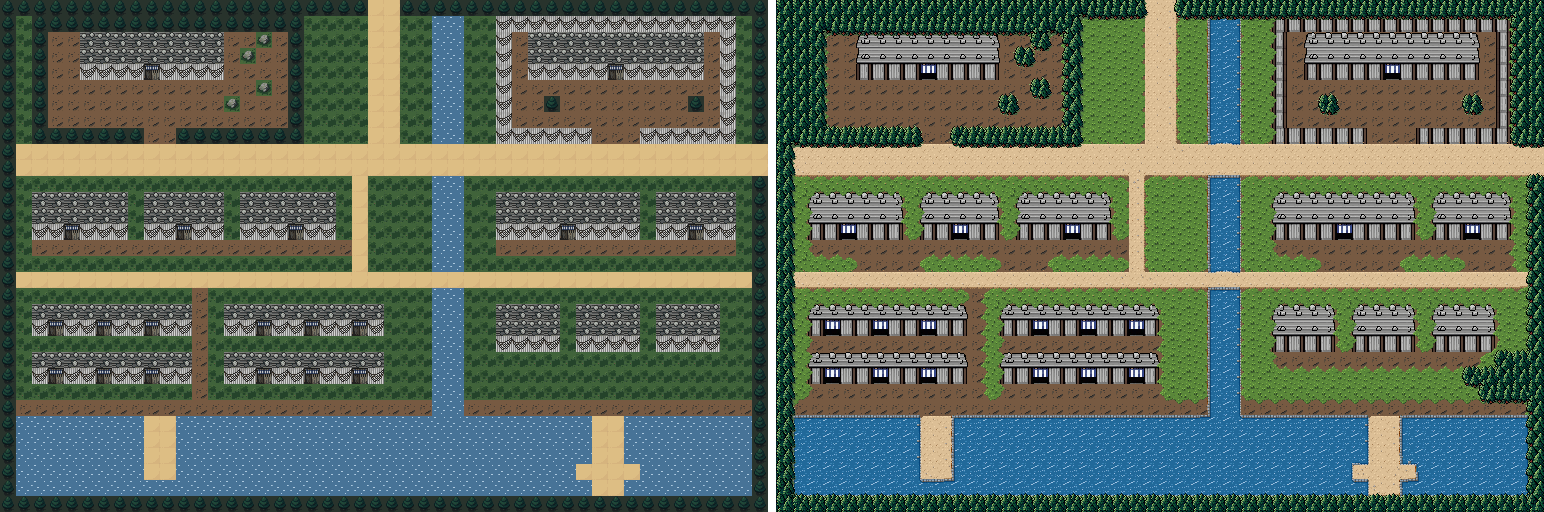
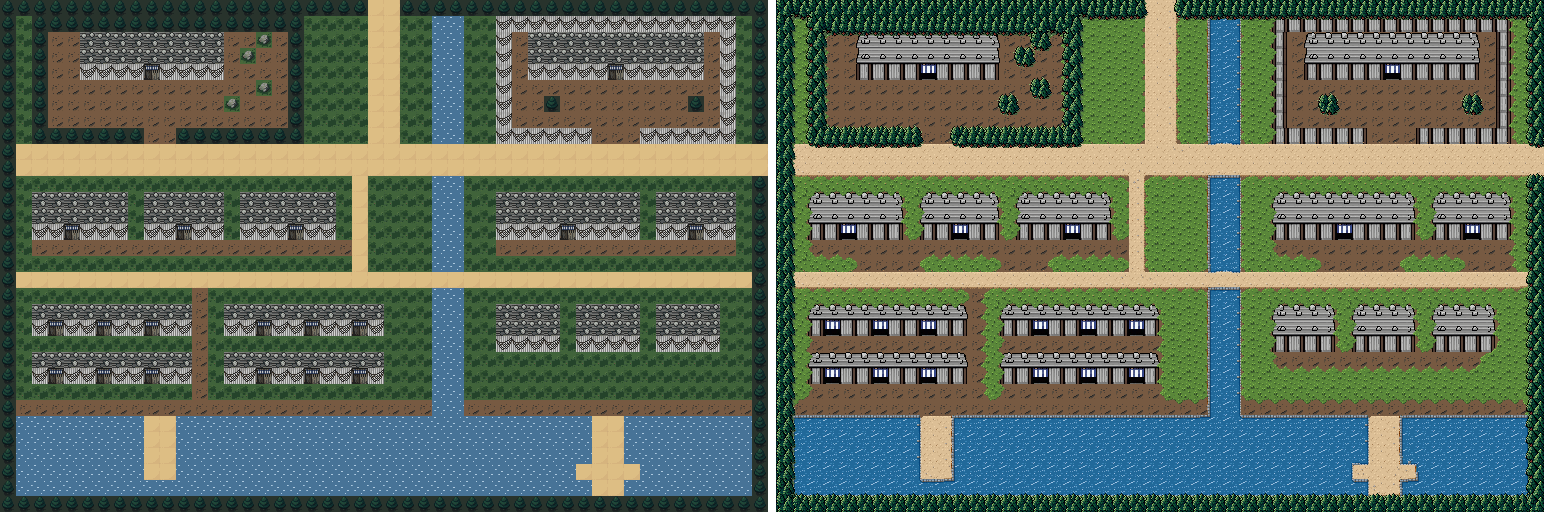
港町の描き直しで通れるマスを変えないようにする
- 通れる/通れないが変わったマス（shimizu の外周の草の帯と南東の角、hiroshima の木）を元に戻す
- README の記録を実際の変更に合わせる
- コミットに入った Python のキャッシュを外し、.gitignore に足す

Claude-Session: https://claude.ai/code/session_01TGCvVdMyYhCKajcTFFKvti

Changed region(s): [[0.4974, 0.0, 0.5285, 0.3125], [0.9637, 0.0, 0.9948, 0.2812], [0.9326, 0.6562, 0.9948, 0.8125]]

diff --git a/src/data/maps.ts b/src/data/maps.ts
@@ -184,14 +184,14 @@ export const MAPS: Record<string, MapDef> = {
     areaLevel: 1,
     rows: [
       'TTTTTTTTTTTTTTTTTTTTTTT==TTTTTTTTTTTTTTTTTTTTTTT',
-      'TTTTTTTTTTTTTTTTTTT,,,,==,,~~,,WWWWWWWWWWWWWWWTT',
-      'TTT..RRRRRRRRR..T.T,,,,==,,~~,,W.RRRRRRRRRRR.WTT',
-      'TTT..RRRRRRRRR.T..T,,,,==,,~~,,W.RRRRRRRRRRR.WTT',
-      'TTT..WWWWDWWWW....T,,,,==,,~~,,W.WWWWWDWWWWW.WTT',
-      'TTT.............T.T,,,,==,,~~,,W.............WTT',
-      'TTT...........T...T,,,,==,,~~,,W..T........T.WTT',
-      'TTT...............T,,,,==,,~~,,W.............WTT',
-      'TTTTTTTTT..TTTTTTTT,,,,==,,~~,,WWWWWW...WWWWWWTT',
+      'T,TTTTTTTTTTTTTTTTT,,,,==,,~~,,WWWWWWWWWWWWWWW,T',
+      'T,T..RRRRRRRRR..T.T,,,,==,,~~,,W.RRRRRRRRRRR.W,T',
+      'T,T..RRRRRRRRR.T..T,,,,==,,~~,,W.RRRRRRRRRRR.W,T',
+      'T,T..WWWWDWWWW....T,,,,==,,~~,,W.WWWWWDWWWWW.W,T',
+      'T,T.............T.T,,,,==,,~~,,W.............W,T',
+      'T,T...........T...T,,,,==,,~~,,W..T........T.W,T',
+      'T,T...............T,,,,==,,~~,,W.............W,T',
+      'T,TTTTTTT..TTTTTTTT,,,,==,,~~,,WWWWWW...WWWWWW,T',
       'T===============================================',
       'T===============================================',
       'T,,,,,,,,,,,,,,,,,,,,,=,,,,~~,,,,,,,,,,,,,,,,,,T',
@@ -205,9 +205,9 @@ export const MAPS: Record<string, MapDef> = {
       'T,RRRRRRRRRR.,RRRRRRRRRR,,,~~,,RRRR,RRRR,RRRR,,T',
       'T,WDWWDWWDWW.,WWDWWDWWDW,,,~~,,RRRR,RRRR,RRRR,,T',
       'T,...........,..........,,,~~,,WWWW,WWWW,WWWW,,T',
-      'T,RRRRRRRRRR.,RRRRRRRRRR,,,~~,,.............,TTT',
-      'T,WDWWDWWDWW.,WWDWWDWWDW,,,~~,,,,,,,,,,,,,,TTTTT',
-      'T,...........,..........,,,~~,,,,,,,,,,,,,,,TTTT',
+      'T,RRRRRRRRRR.,RRRRRRRRRR,,,~~,,.............,,,T',
+      'T,WDWWDWWDWW.,WWDWWDWWDW,,,~~,,,,,,,,,,,,,,,,,,T',
+      'T,...........,..........,,,~~,,,,,,,,,,,,,,,,,,T',
       'T..........................~~..................T',
       'T~~~~~~~~==~~~~~~~~~~~~~~~~~~~~~~~~~~==~~~~~~~~T',
       'T~~~~~~~~==~~~~~~~~~~~~~~~~~~~~~~~~~~==~~~~~~~~T',
@@ -2791,8 +2791,8 @@ MAPS.hiroshima = {
     'TRRR=RRR~~WDWW,=,WWDW~~WWDW,=,WDW~~RRRRRRT',
     'TWDW=WDW~~....,=,....~~....,=,...~~WWWDWWT',
     'T...=...~~,,,,,=,,,,,~~,,,,,=,,,,~~......T',
-    'TTTT=,,,~~TT,,,=,,,,,~~,,,,,=,TT,~~,TTTTTT',
-    'TTTT=,,,~~TT,,,=,,,,,~~,,,,,=,TT,~~,TTTTTT',
+    'TTTT=,,,~~,T,,,=,,T,,~~,T,,,=,,T,~~,TTTTTT',
+    'TTTT=,,,~~,,,,,=,,,,,~~,,,,,=,,,,~~,TTTTTT',
     'T,,,=,,,~~,,,,,=,,,,,~~,,,,,=,,,,~~,,,,,,T',
     'T========================================T',
     'T~~~~~~~~~~~=~~~~~~~~~~~~~=~~~~~~~~~~~~~~T',

diff --git a/public/assets/README.md b/public/assets/README.md
@@ -263,7 +263,7 @@ ZIP の番号はファイル名の末尾の通し番号（0 から 15 の 16 枚
 
 #### 港町（minato: 清水湊・広島）
 
-草・道・森は shoka の `grass_dual`・`road_dual`・`tree_dual` をそのまま複製した（地面と草はどちらも共通の画像なので、境目がそろう）。マップの文字は、見た目のために次だけを変えた（通れるかどうかは変えていない）: 森の外周の内側にあった 1 マスの草の帯を森にした、家の前を地面にして草と入り組ませた、等間隔の 1 本の木を 2 × 2 のかたまりにまとめた、岩（共通の画像は草の四角に見える）を木にした。
+草・道・森は shoka の `grass_dual`・`road_dual`・`tree_dual` をそのまま複製した（地面と草はどちらも共通の画像なので、境目がそろう）。マップの文字は、見た目のために次だけを変えた（通れるかどうかは変えていない。変更の前後で全マスの blocked が同じことを確かめた）: 家の前や道沿いの草を地面にして、地面・道・草を入り組ませた、岩（共通の画像は草の四角に見える）を同じく通れない木にした。
 
 | 部品 | ID と設定 | 判定 |
 | --- | --- | --- |
